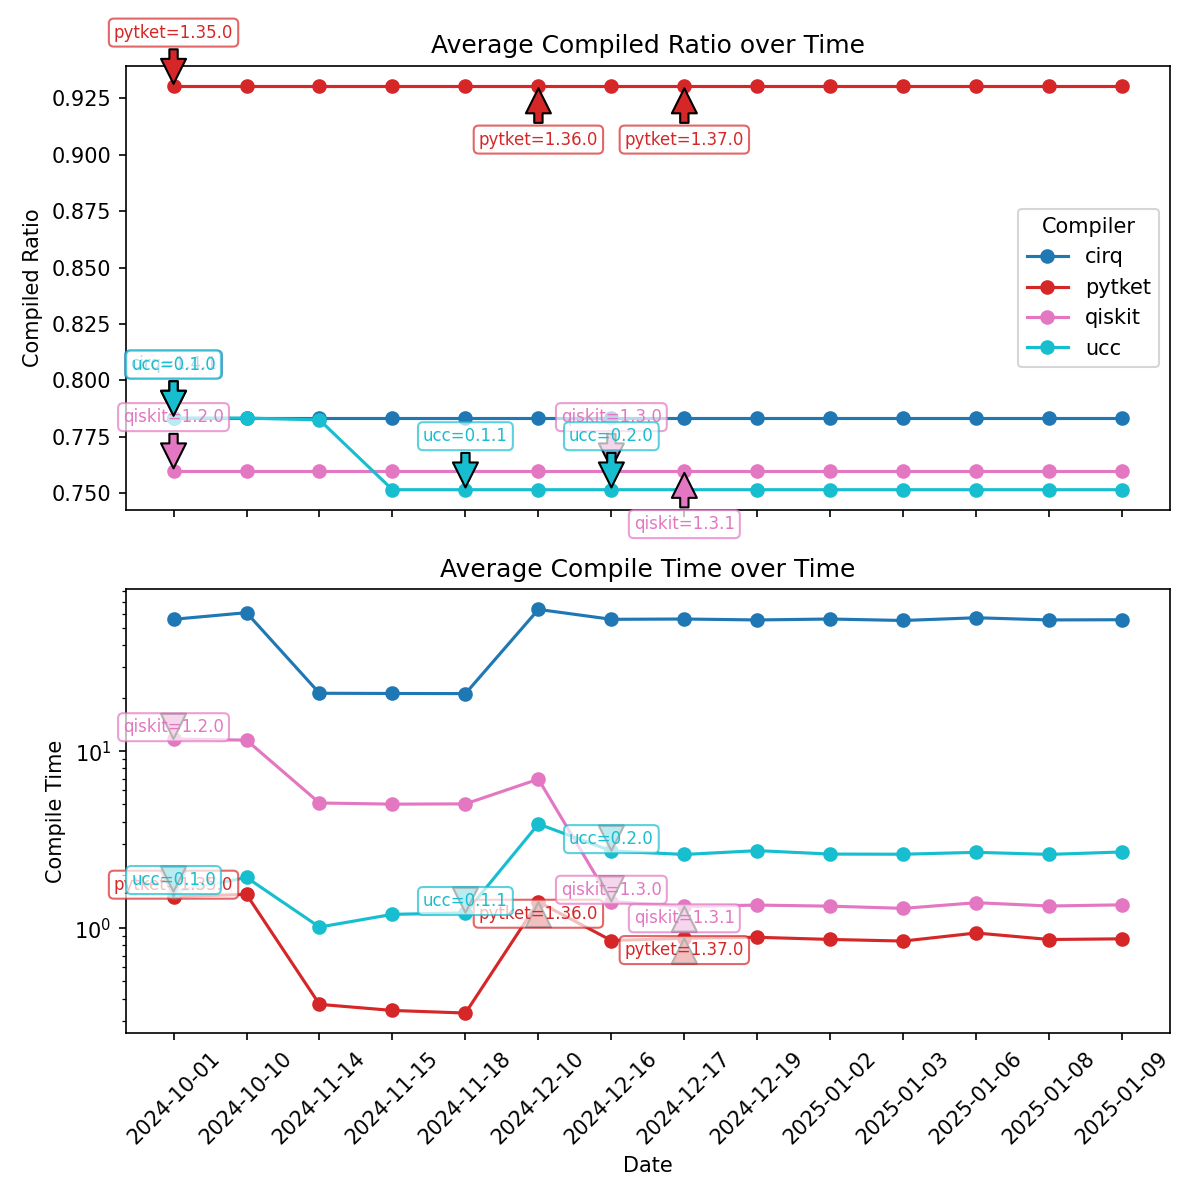
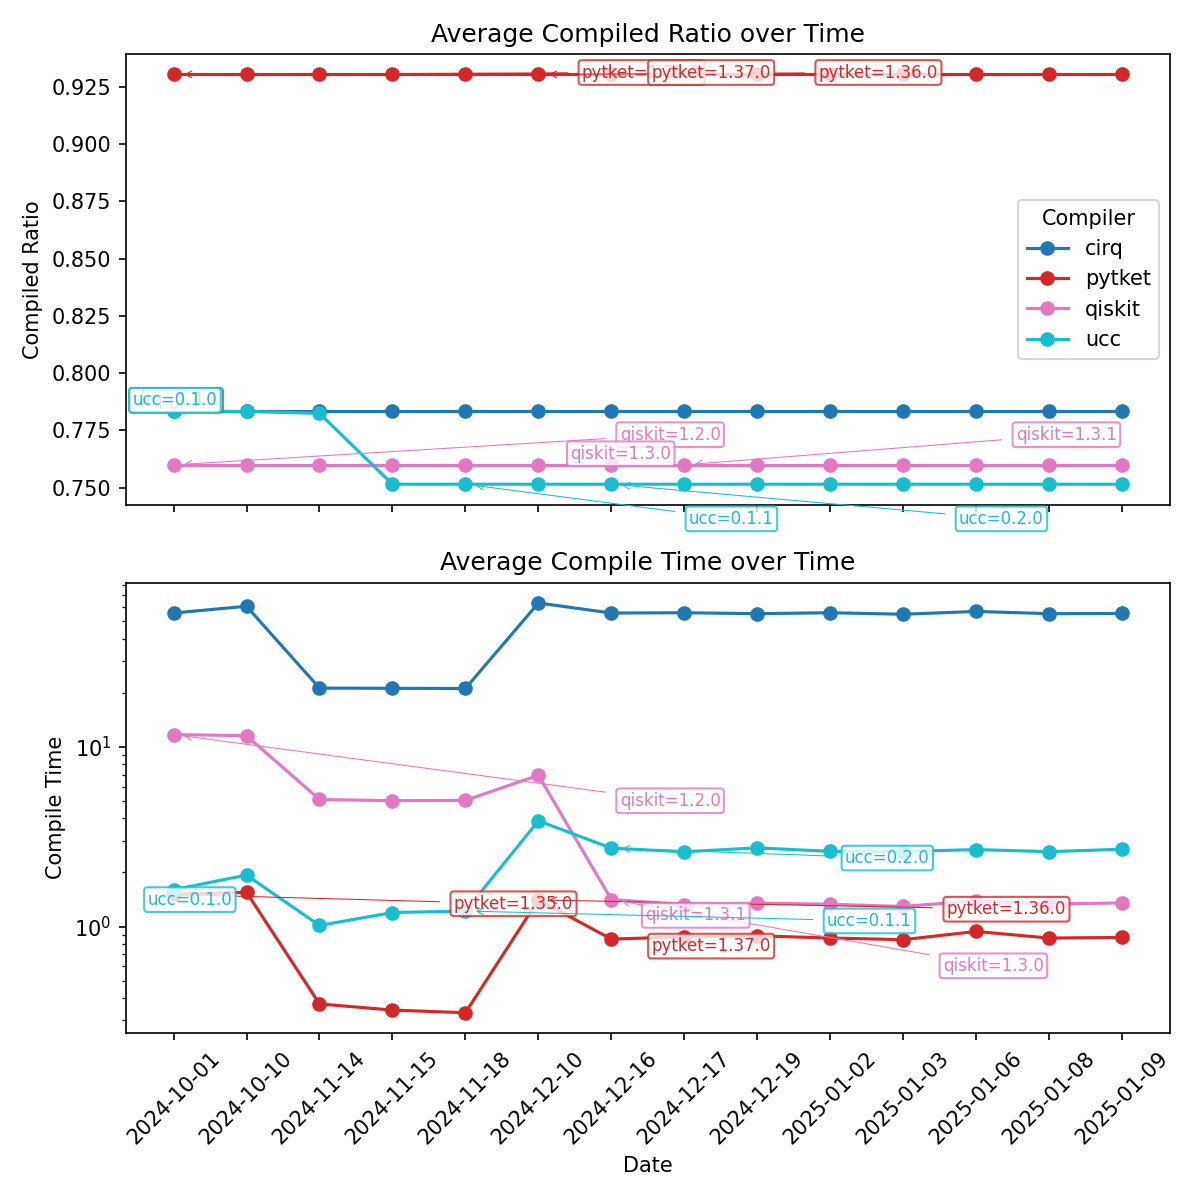
Boxes attached to arrows for labels

diff --git a/benchmarks/scripts/plot_avg_benchmarks_over_time.py b/benchmarks/scripts/plot_avg_benchmarks_over_time.py
@@ -1,3 +1,4 @@
+from adjustText import adjust_text
 import glob
 import pandas as pd
 import matplotlib.pyplot as plt
@@ -6,66 +7,45 @@ import re
 
 # Get the directory of the current script
 directory_of_this_file = os.path.dirname(os.path.abspath(__file__))
-
-# Construct the correct path to the results folder
 results_folder = os.path.join(directory_of_this_file, "../results")
-
-# Use glob to find all CSV files in the results folder
 csv_files = glob.glob(os.path.join(results_folder, "gates*.csv"))
 
 dataframes = []
 
-# Extract compiler versions from the header using regex
 def extract_compiler_versions(header):
     pattern = r"(\w+)=([\d\.]+)"
     return dict(re.findall(pattern, header))
 
-print("Loading data files...", )
-# Loop through each CSV file and read it into a DataFrame
+print("Loading data files...")
 for file in csv_files:
     print(file)
-    
     with open(file, 'r') as f:
-        # Read the first header line which contains compiler versions
         header_line = f.readline().strip()
-        # Extract compiler versions from the header line
         compiler_versions = extract_compiler_versions(header_line)
-        print(f"Compiler versions found: {compiler_versions}")
-    
-    # Note, this will combine results from the same date
     date_label = str(file).split('_')[1].split('.')[0]
-    df = pd.read_csv(file, header=1)  # Load the CSV file into a DataFrame
+    df = pd.read_csv(file, header=1)
     df['date'] = date_label
     df['reduction_factor'] = df['raw_multiq_gates'] / df['compiled_multiq_gates']
     df['gate_reduction_per_s'] = df['reduction_factor'] / df['compile_time']
     df['compiled_ratio'] = df['compiled_multiq_gates'] / df['raw_multiq_gates']
-    
-    # Add the extracted compiler versions to the DataFrame (store versions for each compiler)
     for compiler, version in compiler_versions.items():
-        df[f'{compiler}_version'] = version  # Store each compiler version as a column
-    
-    dataframes.append(df)   # Append the DataFrame to the list
+        df[f'{compiler}_version'] = version
+    dataframes.append(df)
 
-# Concatenate all DataFrames into a single DataFrame
 df_dates = pd.concat(dataframes, ignore_index=True)
-
-# Calculate averages for plotting
 avg_compiled_ratio = df_dates.groupby(["compiler", "date"])["compiled_ratio"].mean().reset_index().sort_values("date")
 avg_compile_time = df_dates.groupby(["compiler", "date"])["compile_time"].mean().reset_index().sort_values("date")
 
-# Set global DPI
-plt.rcParams['figure.dpi'] = 150  # Adjust DPI as needed
-
-# Create a colormap for unique compilers
+plt.rcParams['figure.dpi'] = 150
 unique_compilers = sorted(df_dates["compiler"].unique())
 colormap = plt.get_cmap("tab10", len(unique_compilers))
 color_map = {compiler: colormap(i) for i, compiler in enumerate(unique_compilers)}
 
-# Create subplots
 fig, ax = plt.subplots(2, 1, figsize=(8, 8), sharex=True)
-
-# Initialize a dictionary to store the last version seen for each compiler
 last_version_seen = {compiler: None for compiler in unique_compilers}
+all_texts = []
+
+from adjustText import adjust_text
 
 # Plot avg_compiled_ratio for each compiler
 for compiler in unique_compilers:
@@ -79,36 +59,53 @@ for compiler in unique_compilers:
         color=color_map[compiler]
     )
 
-    # Annotate version changes for each compiler
+    # Store annotations for adjust_text
+    annotations = []
     for index, row in compiler_data.iterrows():
-        # Get the version for this date and compiler from the original df_dates DataFrame
+        # Get the version for this date and compiler from the original DataFrame
         current_version = df_dates[(df_dates["compiler"] == compiler) & (df_dates["date"] == row["date"])][f'{compiler}_version'].values[0]
         
         if current_version != last_version_seen[compiler]:
-            # Alternating the vertical position to prevent overlap
-            vertical_position = 'top' if index % 2 == 0 else 'bottom'
-            
-            # Annotate with an arrow pointing to the data point
-            ax[0].annotate(
-                f"{compiler}={current_version}",  # Annotate with the version
+            annotation = ax[0].annotate(
+                f"{compiler}={current_version}",
                 (row["date"], row["compiled_ratio"]),
                 textcoords="offset points",
-                xytext=(0, 30 if vertical_position == 'top' else -30),  # Adjusting the offset vertically
+                xytext=(10, 15),  # Default offset
                 ha='center',
                 fontsize=8,
                 color=color_map[compiler],
-                verticalalignment=vertical_position,
-                arrowprops=dict(facecolor=color_map[compiler], shrink=0.05),
-                bbox=dict(boxstyle="round,pad=0.3", edgecolor=color_map[compiler], facecolor="white", alpha=0.7)  # Add semi-transparent box
+                arrowprops=dict(
+                    arrowstyle="->",
+                    color=color_map[compiler],
+                    lw=0.5,
+                    shrinkA=5,  # Shrink arrow length to avoid overlap
+                    shrinkB=5
+                ),
+                bbox=dict(
+                    boxstyle="round,pad=0.2",
+                    edgecolor=color_map[compiler],
+                    facecolor="white",
+                    alpha=0.8
+                )
             )
-            # Update the last version seen for this compiler
+            annotations.append(annotation)
             last_version_seen[compiler] = current_version
+    
+    # Adjust the text to avoid overlap
+    adjust_text(
+        annotations,
+        ax=ax[0],
+        only_move={'points': 'y', 'texts': 'y'},  # Constrain movement to vertical axis
+        autoalign='y',
+        force_text=0.5,
+        force_points=0.1
+    )
 
 ax[0].set_title("Average Compiled Ratio over Time")
 ax[0].set_ylabel("Compiled Ratio")
 ax[0].legend(title="Compiler")
 
-# Plot avg_compile_time for each compiler
+# Repeat for avg_compile_time
 for compiler in unique_compilers:
     compiler_data = avg_compile_time[avg_compile_time["compiler"] == compiler]
     ax[1].plot(
@@ -120,30 +117,47 @@ for compiler in unique_compilers:
         color=color_map[compiler]
     )
 
-    # Annotate version changes for each compiler
+    # Store annotations for adjust_text
+    annotations = []
     for index, row in compiler_data.iterrows():
-        # Get the version for this date and compiler from the original df_dates DataFrame
+        # Get the version for this date and compiler
         current_version = df_dates[(df_dates["compiler"] == compiler) & (df_dates["date"] == row["date"])][f'{compiler}_version'].values[0]
         
         if current_version != last_version_seen[compiler]:
-            # Alternating the vertical position to prevent overlap
-            vertical_position = 'top' if index % 2 == 0 else 'bottom'
-            
-            # Annotate with an arrow pointing to the data point
-            ax[1].annotate(
-                f"{compiler}={current_version}",  # Annotate with the version
+            annotation = ax[1].annotate(
+                f"{compiler}={current_version}",
                 (row["date"], row["compile_time"]),
                 textcoords="offset points",
-                xytext=(0, 10 if vertical_position == 'top' else -10),  # Adjusting the offset vertically
+                xytext=(10, -15),  # Default offset
                 ha='center',
                 fontsize=8,
                 color=color_map[compiler],
-                verticalalignment=vertical_position,
-                arrowprops=dict(facecolor=color_map[compiler], shrink=0.05),
-                bbox=dict(boxstyle="round,pad=0.3", edgecolor=color_map[compiler], facecolor="white", alpha=0.7)  # Add semi-transparent box
+                arrowprops=dict(
+                    arrowstyle="->",
+                    color=color_map[compiler],
+                    lw=0.5,
+                    shrinkA=5,  # Shrink arrow length
+                    shrinkB=5
+                ),
+                bbox=dict(
+                    boxstyle="round,pad=0.2",
+                    edgecolor=color_map[compiler],
+                    facecolor="white",
+                    alpha=0.8
+                )
             )
-            # Update the last version seen for this compiler
+            annotations.append(annotation)
             last_version_seen[compiler] = current_version
+    
+    # Adjust the text to avoid overlap
+    adjust_text(
+        annotations,
+        ax=ax[1],
+        only_move={'points': 'y', 'texts': 'y'},  # Constrain movement to vertical axis
+        autoalign='y',
+        force_text=0.5,
+        force_points=0.1
+    )
 
 ax[1].set_title("Average Compile Time over Time")
 ax[1].set_ylabel("Compile Time")
@@ -151,35 +165,7 @@ ax[1].set_xlabel("Date")
 ax[1].set_yscale("log")
 
 plt.xticks(rotation=45)
-
-# Adjust layout and save the figure
 plt.tight_layout()
 filename = os.path.join(directory_of_this_file, "../avg_compiler_benchmarks_over_time_with_versions_and_arrows.png")
-print(f"\n Saving plot to {filename}")
+print(f"\nSaving plot to {filename}")
 fig.savefig(filename)
-
-# Show the plot (optional)
-# plt.show()
-# Function to check for overlapping annotations
-def check_overlap(annotation, annotations):
-    for ann in annotations:
-        if annotation.xy[0] == ann.xy[0] and abs(annotation.xy[1] - ann.xy[1]) < 0.05:
-            return True
-    return False
-
-# Adjust annotation positions to avoid overlap
-def adjust_annotations(ax):
-    annotations = []
-    for annotation in ax.texts:
-        max_iterations = 100
-        iterations = 0
-        while check_overlap(annotation, annotations) and iterations < max_iterations:
-            iterations += 1
-            x, y = annotation.xy
-            y += 0.05  # Adjust the y position to avoid overlap
-            annotation.set_position((x, y))
-        annotations.append(annotation)
-
-# Adjust annotations for both subplots
-adjust_annotations(ax[0])
-adjust_annotations(ax[1])
